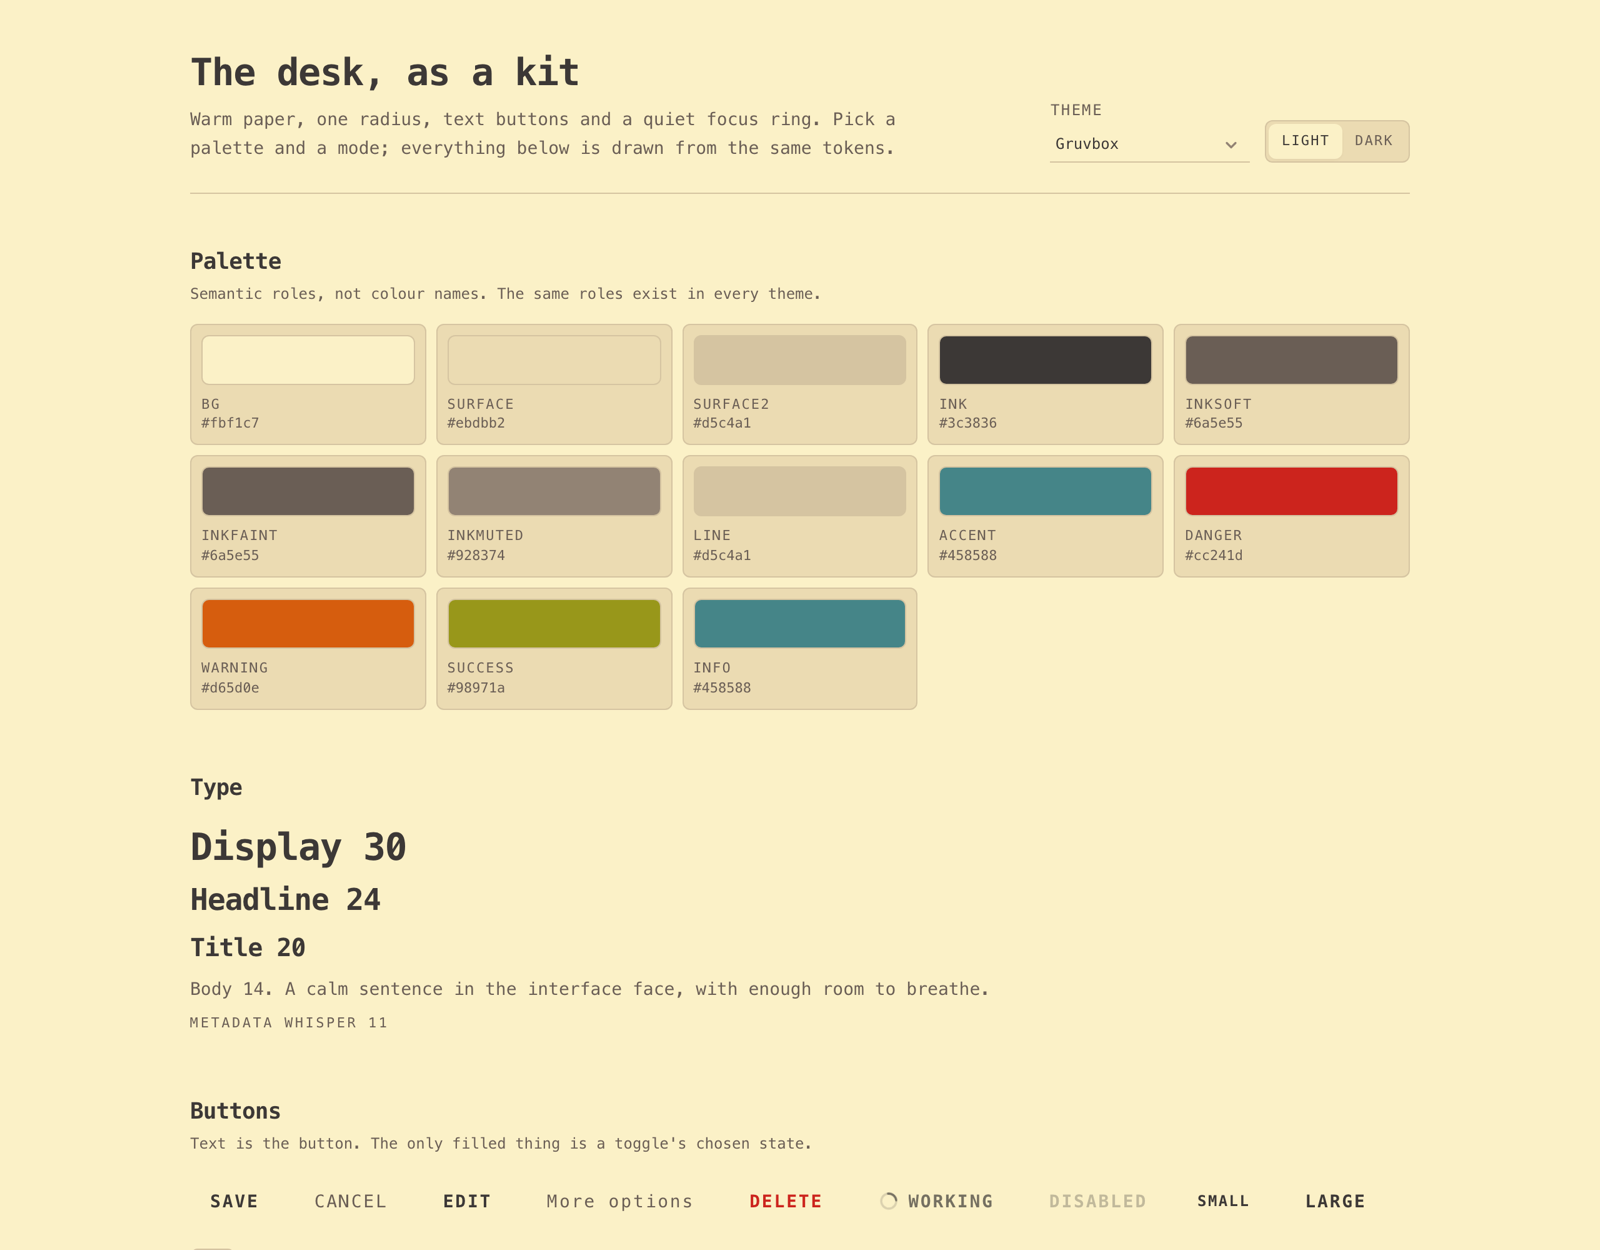
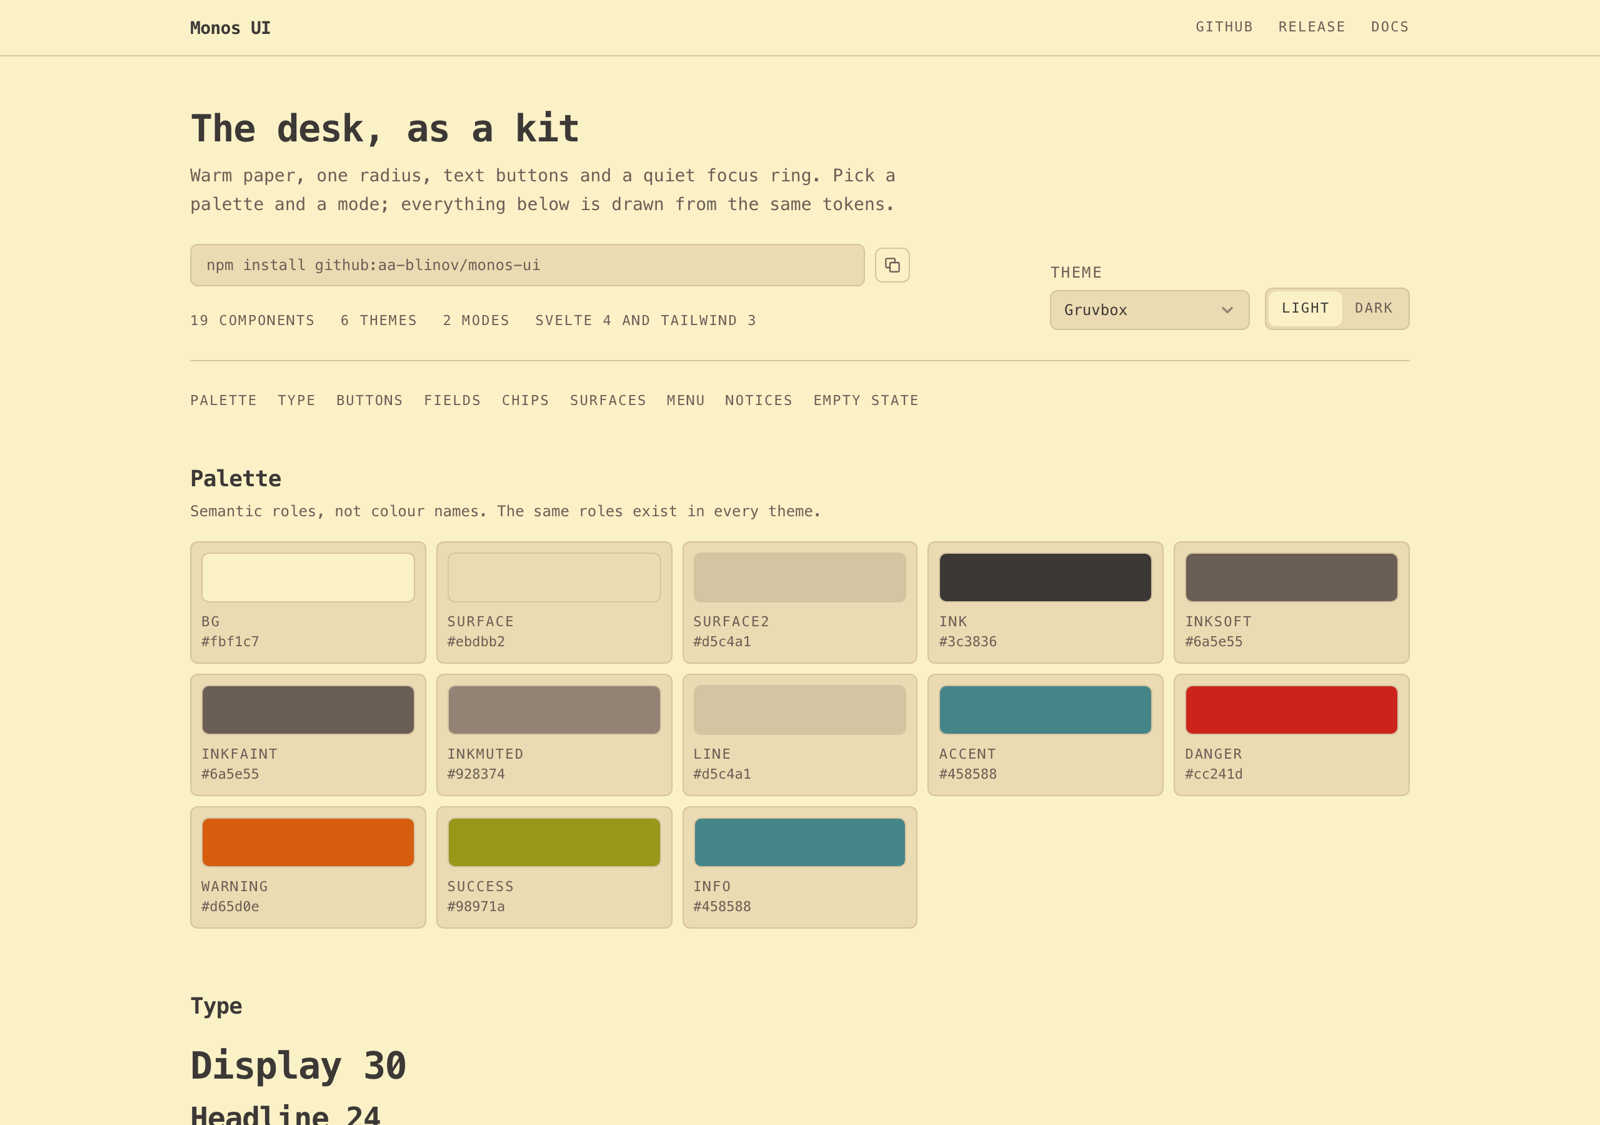
Make the Pages site a landing page for the kit

diff --git a/gallery/App.svelte b/gallery/App.svelte
@@ -1,4 +1,5 @@
 <script>
+  import { onDestroy } from 'svelte';
   import {
     Map,
     Star,
@@ -47,6 +48,39 @@
   let modalOpen = false;
   let noticeVisible = true;
   let picked = '';
+  let copied = false;
+  let copyTimer = null;
+
+  const INSTALL = 'npm install github:aa-blinov/monos-ui';
+
+  async function copyInstall() {
+    let ok = false;
+    try {
+      await navigator.clipboard.writeText(INSTALL);
+      ok = true;
+    } catch {
+      // A clipboard permission can be refused; a selected field still copies in older browsers.
+      try {
+        const area = document.createElement('textarea');
+        area.value = INSTALL;
+        area.style.position = 'fixed';
+        area.style.opacity = '0';
+        document.body.appendChild(area);
+        area.select();
+        ok = document.execCommand('copy');
+        area.remove();
+      } catch {
+        ok = false;
+      }
+    }
+    copied = ok;
+    if (ok) {
+      clearTimeout(copyTimer);
+      copyTimer = setTimeout(() => (copied = false), 2000);
+    }
+  }
+
+  onDestroy(() => clearTimeout(copyTimer));
 
   const menuItems = [
     { value: 'map', label: 'Map', icon: Map },
@@ -67,13 +101,51 @@
   }
 </script>
 
-<div class="mx-auto max-w-5xl px-6 pb-24 pt-10">
+<nav class="sticky top-0 z-20 border-b border-line bg-canvas" aria-label="Monos UI">
+  <div class="mx-auto flex max-w-5xl items-center justify-between gap-4 px-6 py-3">
+    <a href="#top" class="text-sm font-bold tracking-tight">Monos UI</a>
+    <div class="flex items-center gap-5 text-whisper uppercase tracking-widest text-ink-faint">
+      <a href="https://github.com/aa-blinov/monos-ui" class="transition-colors duration-fast hover:text-ink">GitHub</a>
+      <a href="https://github.com/aa-blinov/monos-ui/releases" class="transition-colors duration-fast hover:text-ink">Release</a>
+      <a href="https://github.com/aa-blinov/monos-ui/tree/main/docs" class="transition-colors duration-fast hover:text-ink">Docs</a>
+    </div>
+  </div>
+</nav>
+
+<div id="top" class="mx-auto max-w-5xl px-6 pb-24 pt-10">
   <header class="flex flex-wrap items-end justify-between gap-6 border-b border-line pb-6">
     <div>
       <h1 class="text-3xl font-bold tracking-tight">The desk, as a kit</h1>
       <p class="mt-2 max-w-xl text-sm leading-relaxed text-ink-soft">
         Warm paper, one radius, text buttons and a quiet focus ring. Pick a palette and a mode;
         everything below is drawn from the same tokens.
+      </p>
+      <div class="mt-5 flex max-w-full items-center gap-2">
+        <code class="min-w-0 flex-1 overflow-x-auto whitespace-nowrap rounded-ui border border-line bg-surface px-3 py-2 font-mono text-xs text-ink-soft">{INSTALL}</code>
+        <IconButton
+          label={copied ? 'Copied' : 'Copy install command'}
+          tooltipText={copied ? 'Copied' : 'Copy install command'}
+          variant="outline"
+          size="sm"
+          on:click={copyInstall}
+        >
+          {#if copied}
+            <svg class="h-4 w-4" viewBox="0 0 24 24" fill="none" aria-hidden="true">
+              <polyline points="20 6 9 17 4 12" stroke="currentColor" stroke-width="1.7" stroke-linecap="round" stroke-linejoin="round" />
+            </svg>
+          {:else}
+            <svg class="h-4 w-4" viewBox="0 0 24 24" fill="none" aria-hidden="true">
+              <rect x="9" y="9" width="11" height="11" rx="1.5" stroke="currentColor" stroke-width="1.7" />
+              <path d="M15 9V5.5A1.5 1.5 0 0 0 13.5 4h-8A1.5 1.5 0 0 0 4 5.5v8A1.5 1.5 0 0 0 5.5 15H9" stroke="currentColor" stroke-width="1.7" stroke-linecap="round" />
+            </svg>
+          {/if}
+        </IconButton>
+      </div>
+      <p class="mt-5 flex flex-wrap gap-x-5 gap-y-1 text-whisper uppercase tracking-widest text-ink-faint">
+        <span>19 components</span>
+        <span>6 themes</span>
+        <span>2 modes</span>
+        <span>Svelte 4 and Tailwind 3</span>
       </p>
     </div>
     <div class="flex flex-wrap items-end gap-3">
@@ -84,7 +156,13 @@
     </div>
   </header>
 
-  <section class="mt-10">
+  <nav class="mt-6 flex flex-wrap gap-x-4 gap-y-2 text-whisper uppercase tracking-widest text-ink-faint" aria-label="Sections">
+    {#each [['palette', 'Palette'], ['type', 'Type'], ['buttons', 'Buttons'], ['fields', 'Fields'], ['marks', 'Chips'], ['surfaces', 'Surfaces'], ['menu', 'Menu'], ['notices', 'Notices'], ['empty', 'Empty state']] as [id, name]}
+      <a href="#{id}" class="transition-colors duration-fast hover:text-ink">{name}</a>
+    {/each}
+  </nav>
+
+  <section id="palette" class="mt-10 scroll-mt-20">
     <h2 class="text-lg font-bold tracking-tight">Palette</h2>
     <p class="mt-1 text-xs text-ink-soft">Semantic roles, not colour names. The same roles exist in every theme.</p>
     <div class="mt-4 grid grid-cols-2 gap-2 sm:grid-cols-3 lg:grid-cols-5">
@@ -98,7 +176,7 @@
     </div>
   </section>
 
-  <section class="mt-12">
+  <section id="type" class="mt-12 scroll-mt-20">
     <h2 class="text-lg font-bold tracking-tight">Type</h2>
     <div class="mt-4 space-y-2">
       <p class="text-3xl font-bold tracking-tight">Display 30</p>
@@ -109,7 +187,7 @@
     </div>
   </section>
 
-  <section class="mt-12">
+  <section id="buttons" class="mt-12 scroll-mt-20">
     <h2 class="text-lg font-bold tracking-tight">Buttons</h2>
     <p class="mt-1 text-xs text-ink-soft">Text is the button. The only filled thing is a toggle's chosen state.</p>
     <div class="mt-4 flex flex-wrap items-center gap-3">
@@ -139,7 +217,7 @@
     </div>
   </section>
 
-  <section class="mt-12">
+  <section id="fields" class="mt-12 scroll-mt-20">
     <h2 class="text-lg font-bold tracking-tight">Fields</h2>
     <div class="mt-4 grid gap-6 md:grid-cols-2">
       <TextField label="Title" bind:value={title} hint="The name on the card and in the file" />
@@ -160,7 +238,7 @@
     </div>
   </section>
 
-  <section class="mt-12">
+  <section id="marks" class="mt-12 scroll-mt-20">
     <h2 class="text-lg font-bold tracking-tight">Chips and badges</h2>
     <div class="mt-4 flex flex-wrap items-center gap-3">
       <Chip>#design</Chip>
@@ -175,7 +253,7 @@
     </div>
   </section>
 
-  <section class="mt-12">
+  <section id="surfaces" class="mt-12 scroll-mt-20">
     <h2 class="text-lg font-bold tracking-tight">Surfaces</h2>
     <div class="mt-4 grid gap-4 sm:grid-cols-2">
       <Card>
@@ -189,7 +267,7 @@
     </div>
   </section>
 
-  <section class="mt-12">
+  <section id="menu" class="mt-12 scroll-mt-20">
     <h2 class="text-lg font-bold tracking-tight">Menu and modal</h2>
     <div class="mt-4 flex flex-wrap items-center gap-4">
       <Menu items={menuItems} label="Actions" on:select={(event) => (picked = event.detail.label)}>
@@ -209,7 +287,7 @@
     </div>
   </section>
 
-  <section class="mt-12">
+  <section id="notices" class="mt-12 scroll-mt-20">
     <h2 class="text-lg font-bold tracking-tight">Notices</h2>
     <div class="mt-4 space-y-3">
       {#if noticeVisible}
@@ -222,7 +300,7 @@
     </div>
   </section>
 
-  <section class="mt-12 grid gap-6 md:grid-cols-2">
+  <section id="empty" class="mt-12 scroll-mt-20 grid gap-6 md:grid-cols-2">
     <div>
       <h2 class="text-lg font-bold tracking-tight">Empty state</h2>
       <Card padding="lg" class="mt-4">
@@ -253,6 +331,14 @@
       </div>
     </div>
   </section>
+
+  <footer class="mt-16 flex flex-wrap items-center justify-between gap-3 border-t border-line pt-6 text-xs text-ink-faint">
+    <p>MIT, Svelte 4, Tailwind 3</p>
+    <p>
+      <a href="https://github.com/aa-blinov/monos-ui" class="transition-colors duration-fast hover:text-ink">GitHub</a>,
+      <a href="https://github.com/aa-blinov/monos-ui/releases" class="transition-colors duration-fast hover:text-ink">Release</a>
+    </p>
+  </footer>
 </div>
 
 <Modal bind:open={modalOpen} title="Delete this note?" description="This cannot be undone.">

diff --git a/README.md b/README.md
@@ -10,6 +10,8 @@ The design system itself, in one page: [DESIGN.md](DESIGN.md).
 
 > **Status:** 0.1.0, source distribution. Not on npm yet; install from this repository.
 
+**Live gallery:** [aa-blinov.github.io/monos-ui](https://aa-blinov.github.io/monos-ui/)
+
 ![The kit's gallery: palette, type, buttons and fields](docs/preview.png)
 
 ## Install
